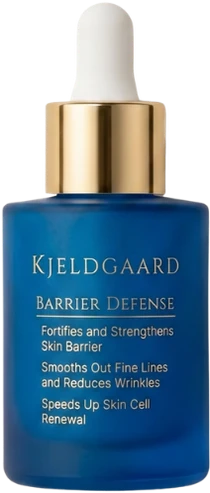
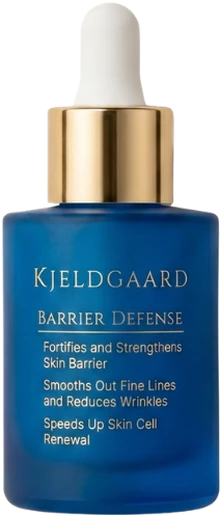
Comparison: remove "Anbefalet" pill + refresh Barrier Defense image (#66)
* Comparison: redesign — products inside the table, raised "us" column

Rebuilds the comparison to match the reference DTC layout: both products now
sit inside the header row (no more bottle floating above a dark marine bar).
The Barrier Defense column is a raised paper panel on a warm cream table, with
a marine top edge and an "Anbefalet" pill; "Andre serum" uses a muted, cut-out
frosted jar (checkerboard bg removed via a saturation mask + hole-fill). Bigger
products, filled green/red badges with soft shadows, generous row rhythm.
styles.css v17 -> v18.

* Comparison: drop the "Anbefalet" pill, refresh Barrier Defense image

Removes the "Anbefalet" tag from the Barrier Defense header cell (HTML + CSS,
desktop + mobile) and swaps in the updated transparent product shot (220x517).
styles.css v18 -> v19.

---------

diff --git a/genvind-din-gloed/styles.css b/genvind-din-gloed/styles.css
@@ -2346,7 +2346,7 @@ body.lb-open { overflow: hidden; }
 /* header cells hold the product image + name */
 .cx-hcell {
   display: flex; flex-direction: column; align-items: center; justify-content: flex-end;
-  gap: 12px; padding: 30px 12px 18px; min-height: 208px; position: relative;
+  gap: 12px; padding: 26px 12px 18px; min-height: 208px; position: relative;
 }
 .cx-prod { width: auto; display: block; }
 .cx-prod-bd { height: 158px; filter: drop-shadow(0 10px 20px rgba(16,42,67,.24)); }
@@ -2354,15 +2354,6 @@ body.lb-open { overflow: hidden; }
 .cx-hname { font-family: var(--font-sans); font-weight: 700; font-size: 15px; letter-spacing: .01em; }
 .cx-hbd .cx-hname { color: var(--marine-700); }
 .cx-hother .cx-hname { color: var(--ink-soft); font-weight: 600; }
-
-/* "Anbefalet" pill */
-.cx-tag {
-  position: absolute; top: 12px; left: 50%; transform: translateX(-50%);
-  font-family: var(--font-sans); font-size: 10.5px; font-weight: 700;
-  letter-spacing: .09em; text-transform: uppercase; white-space: nowrap;
-  color: var(--marine-700); background: #E7EDEF;
-  padding: 4px 11px; border-radius: var(--radius-pill);
-}
 
 .cx-r { border-top: 1px solid var(--rule); }
 
@@ -2399,6 +2390,5 @@ body.lb-open { overflow: hidden; }
   .cx-prod-bd { height: 118px; }
   .cx-prod-other { height: 84px; }
   .cx-hname { font-size: 12.5px; }
-  .cx-tag { font-size: 9px; padding: 3px 8px; top: 8px; }
   .cx-badge { width: 26px; height: 26px; font-size: 14px; }
 }

diff --git a/genvind-din-gloed/index.html b/genvind-din-gloed/index.html
@@ -62,7 +62,7 @@
   <script src="https://cdn.tailwindcss.com"></script>
 
   <!-- Custom CSS (versioned to bust the 1yr cache on deploy) -->
-  <link rel="stylesheet" href="/genvind-din-gloed/styles.css?v=18" />
+  <link rel="stylesheet" href="/genvind-din-gloed/styles.css?v=19" />
 
   <!-- Critical guard: lives in the always-fresh HTML so a stale/cached
        stylesheet can never blow up inline SVGs or the rotator again. -->
@@ -232,8 +232,7 @@
             <div class="cx-head" role="row">
               <span class="cx-c cx-lbl cx-lbl-head" role="columnheader" aria-label="Egenskab"></span>
               <span class="cx-c cx-hcell cx-hbd" role="columnheader">
-                <span class="cx-tag">Anbefalet</span>
-                <img class="cx-prod cx-prod-bd" src="/genvind-din-gloed/assets/comparison/barrier-defense.webp" alt="Kjeldgaards Barrier Defense Serum" width="210" height="493" loading="lazy" decoding="async" />
+                <img class="cx-prod cx-prod-bd" src="/genvind-din-gloed/assets/comparison/barrier-defense.webp" alt="Kjeldgaards Barrier Defense Serum" width="220" height="517" loading="lazy" decoding="async" />
                 <span class="cx-hname">Barrier Defense</span>
               </span>
               <span class="cx-c cx-hcell cx-hother" role="columnheader">